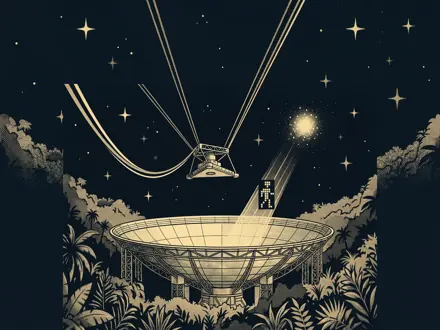
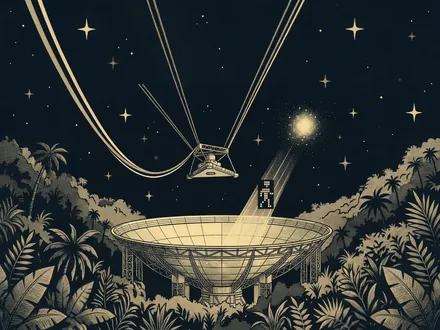
Arecibo story card: redo the widened edges of its art

diff --git a/js/main.js b/js/main.js
@@ -1,50 +1,50 @@
-import { loadComets, comets, cometAt, NAKED_EYE } from './comets.js?v=0.1.770';
-import * as Secrets from './secrets.js?v=0.1.770';
-import { STORY_BY_SECRET } from './stories.js?v=0.1.770';
-import { cloudsHtml, rainHtml } from './weather-art.js?v=0.1.770';
-import * as Ufo from './ufo.js?v=0.1.770';
-import * as Fossil from './fossil.js?v=0.1.770';
-import { patchHtml, patchSvg } from './patches.js?v=0.1.770';
-import { setSwitch, SLIDE_MS } from './switcher.js?v=0.1.770';
-import { toast, ticket, dropToast, toastPending, onTicketShown } from './toast.js?v=0.1.770';
-import { VERSION } from './version.js?v=0.1.770';
-import { loadCatalog, frame, look, track, motion, compassPoint, enuFromAzEl, DARK_SUN_ELEVATION, SkyModel, BelowModel, overEarth, RisingSoon, setBinocularMode, setSkyLimit } from './orbit.js?v=0.1.770';
-import { placeName } from './geo.js?v=0.1.770';
-import { skyLimit, SKIES, DEFAULT_SKY, SB_MIN, SB_MAX, SLIDER_MAX, sbOfSky, skyNameFor } from './sky-limit.js?v=0.1.770';
-import { conArt } from './con-art.js?v=0.1.770';
-import { fetchWeather, tonightSky, skyClearAt, goodSkyAt } from './weather.js?v=0.1.770';
-import { CON_FIGURES } from './con-figures.js?v=0.1.770';
-import { loadConstellations, CON_STARS, CON_BY_ID, conProgress } from './constellations.js?v=0.1.770';
-import { shinyFor, SHINY } from './shiny.js?v=0.1.770';
-import { progress as progressOf, missionsFor, readDeals, xpCarry } from './progress.js?v=0.1.770';
-import { eventOf, activeEvent, nextEvent } from './events.js?v=0.1.770';
-import { conList } from './constellations.js?v=0.1.770';
-import { startSensors, trySensorsQuietly, hasLiveSensors, trueBasis, basisFromAzEl, rotateAz, pointing, nudgeHeading, getNudge, lockHeading, setCompassPlace, getDeclination } from './sensors.js?v=0.1.770';
-import { SkyView, shortName } from './sky.js?v=0.1.770';
-import { loadSky, eqToEnu, solarSystem, milkyWayModel, galAxes, roadster, starVector } from './celestial.js?v=0.1.770';
-import { isPlus, setPlusForTesting, onPlus, PLUS_PERKS, PLUS_PRICES, initStore, storePlans, buyPlus, restorePlus } from './plus.js?v=0.1.770';
-import { isNative, getPosition, saveFile, notifyAt, cancelNotify, haptic, onNative, nativeChrome, plugin } from './native.js?v=0.1.770';
-import { initBackup, onBackupChange, backupSoon, clearBackup, backupStatus } from './cloud-backup.js?v=0.1.770';
-import { addSighting, allSightings, deleteSighting } from './store.js?v=0.1.770';
-import { cardArt } from './art.js?v=0.1.770';
-import { renderCard, miniCard, cardLevel, artImage, lockedArt, attachTilt, attachGyro, throwOff, attachFlip } from './card.js?v=0.1.770';
-import { applyBack, CARD_BACKS, backUnlocked, chosenBack, chooseBack, backEarned } from './card-backs.js?v=0.1.770';
-import { sfx, loadSfx, sfxVolume } from './sfx.js?v=0.1.770';
-import { audioCtx } from './audio-ctx.js?v=0.1.770';
-import { musicOn, startMusic, setMusic, duckMusic, musicVolume, setMusicVolume } from './music.js?v=0.1.770';
-import { onRevealNews, playReveal, playView, primeReveal, stopReveal, onRevealDismiss } from './reveal.js?v=0.1.770';
-import { buildCards, cardKeyFor, stampKeyFor, normalizeSighting, stampsIn, fleetLevel } from './card-model.js?v=0.1.770';
-import { collectedDuringPass, collectedTonight, canCapture, nightsIn, nightKey } from './observation.js?v=0.1.770';
-import { naturalTargets, SOLAR_SYSTEM, DEEP_SKY } from './natural.js?v=0.1.770';
-import { placeFromTimeZone } from './tz-places.js?v=0.1.770';
-import { TIER_INFO } from './rarity.js?v=0.1.770';
-import { SETS, albumList } from './sets.js?v=0.1.770';
-import { TYPE_LABEL, ownerName, orbitStats } from './facts.js?v=0.1.770';
-import { pushConfigured, pushOn, enablePush, disablePush, schedulePush, prefetchKey } from './pass-alerts.js?v=0.1.770';
-import { shareCardEl } from './share-card.js?v=0.1.770';
-import { loadLore, titleFor, factFor, richText } from './lore.js?v=0.1.770';
-import { PlaneTracker, planesAvailable, aircraftName, isHelicopter, planePath } from './planes.js?v=0.1.770';
-import { addStarfield } from './starfield.js?v=0.1.770';
+import { loadComets, comets, cometAt, NAKED_EYE } from './comets.js?v=0.1.771';
+import * as Secrets from './secrets.js?v=0.1.771';
+import { STORY_BY_SECRET } from './stories.js?v=0.1.771';
+import { cloudsHtml, rainHtml } from './weather-art.js?v=0.1.771';
+import * as Ufo from './ufo.js?v=0.1.771';
+import * as Fossil from './fossil.js?v=0.1.771';
+import { patchHtml, patchSvg } from './patches.js?v=0.1.771';
+import { setSwitch, SLIDE_MS } from './switcher.js?v=0.1.771';
+import { toast, ticket, dropToast, toastPending, onTicketShown } from './toast.js?v=0.1.771';
+import { VERSION } from './version.js?v=0.1.771';
+import { loadCatalog, frame, look, track, motion, compassPoint, enuFromAzEl, DARK_SUN_ELEVATION, SkyModel, BelowModel, overEarth, RisingSoon, setBinocularMode, setSkyLimit } from './orbit.js?v=0.1.771';
+import { placeName } from './geo.js?v=0.1.771';
+import { skyLimit, SKIES, DEFAULT_SKY, SB_MIN, SB_MAX, SLIDER_MAX, sbOfSky, skyNameFor } from './sky-limit.js?v=0.1.771';
+import { conArt } from './con-art.js?v=0.1.771';
+import { fetchWeather, tonightSky, skyClearAt, goodSkyAt } from './weather.js?v=0.1.771';
+import { CON_FIGURES } from './con-figures.js?v=0.1.771';
+import { loadConstellations, CON_STARS, CON_BY_ID, conProgress } from './constellations.js?v=0.1.771';
+import { shinyFor, SHINY } from './shiny.js?v=0.1.771';
+import { progress as progressOf, missionsFor, readDeals, xpCarry } from './progress.js?v=0.1.771';
+import { eventOf, activeEvent, nextEvent } from './events.js?v=0.1.771';
+import { conList } from './constellations.js?v=0.1.771';
+import { startSensors, trySensorsQuietly, hasLiveSensors, trueBasis, basisFromAzEl, rotateAz, pointing, nudgeHeading, getNudge, lockHeading, setCompassPlace, getDeclination } from './sensors.js?v=0.1.771';
+import { SkyView, shortName } from './sky.js?v=0.1.771';
+import { loadSky, eqToEnu, solarSystem, milkyWayModel, galAxes, roadster, starVector } from './celestial.js?v=0.1.771';
+import { isPlus, setPlusForTesting, onPlus, PLUS_PERKS, PLUS_PRICES, initStore, storePlans, buyPlus, restorePlus } from './plus.js?v=0.1.771';
+import { isNative, getPosition, saveFile, notifyAt, cancelNotify, haptic, onNative, nativeChrome, plugin } from './native.js?v=0.1.771';
+import { initBackup, onBackupChange, backupSoon, clearBackup, backupStatus } from './cloud-backup.js?v=0.1.771';
+import { addSighting, allSightings, deleteSighting } from './store.js?v=0.1.771';
+import { cardArt } from './art.js?v=0.1.771';
+import { renderCard, miniCard, cardLevel, artImage, lockedArt, attachTilt, attachGyro, throwOff, attachFlip } from './card.js?v=0.1.771';
+import { applyBack, CARD_BACKS, backUnlocked, chosenBack, chooseBack, backEarned } from './card-backs.js?v=0.1.771';
+import { sfx, loadSfx, sfxVolume } from './sfx.js?v=0.1.771';
+import { audioCtx } from './audio-ctx.js?v=0.1.771';
+import { musicOn, startMusic, setMusic, duckMusic, musicVolume, setMusicVolume } from './music.js?v=0.1.771';
+import { onRevealNews, playReveal, playView, primeReveal, stopReveal, onRevealDismiss } from './reveal.js?v=0.1.771';
+import { buildCards, cardKeyFor, stampKeyFor, normalizeSighting, stampsIn, fleetLevel } from './card-model.js?v=0.1.771';
+import { collectedDuringPass, collectedTonight, canCapture, nightsIn, nightKey } from './observation.js?v=0.1.771';
+import { naturalTargets, SOLAR_SYSTEM, DEEP_SKY } from './natural.js?v=0.1.771';
+import { placeFromTimeZone } from './tz-places.js?v=0.1.771';
+import { TIER_INFO } from './rarity.js?v=0.1.771';
+import { SETS, albumList } from './sets.js?v=0.1.771';
+import { TYPE_LABEL, ownerName, orbitStats } from './facts.js?v=0.1.771';
+import { pushConfigured, pushOn, enablePush, disablePush, schedulePush, prefetchKey } from './pass-alerts.js?v=0.1.771';
+import { shareCardEl } from './share-card.js?v=0.1.771';
+import { loadLore, titleFor, factFor, richText } from './lore.js?v=0.1.771';
+import { PlaneTracker, planesAvailable, aircraftName, isHelicopter, planePath } from './planes.js?v=0.1.771';
+import { addStarfield } from './starfield.js?v=0.1.771';
 
 const $ = (id) => document.getElementById(id);
 const RAD = Math.PI / 180;

diff --git a/js/cards-page.js b/js/cards-page.js
@@ -1,29 +1,29 @@
-import { isNative, saveFile, notifyAt, shareFile } from './native.js?v=0.1.770';
-import { computeStats, statsHtml } from './stats.js?v=0.1.770';
-import { nightKey } from './observation.js?v=0.1.770';
-import { loadComets, comets, cometAt, NAKED_EYE } from './comets.js?v=0.1.770';
-import { sfx } from './sfx.js?v=0.1.770';
-import { expandFacts } from './catalog-facts.js?v=0.1.770';
-import { patchHtml, GROUPS, GROUP_ORDER, groupOf, finishOf, fmtEarned } from './patches.js?v=0.1.770';
-import { setSwitch, SLIDE_MS } from './switcher.js?v=0.1.770';
-import { ticket } from './toast.js?v=0.1.770';
-import { orbitGlobe, whereLine } from './orbit-view.js?v=0.1.770';
-import { renderCard, miniCard, lockedArt, renderCardTile, attachTilt, attachGyro, attachFlip, artImage, throwOff } from './card.js?v=0.1.770';
-import { cardArt } from './art.js?v=0.1.770';
-import { buildCards, cardKeyFor, normalizeSighting } from './card-model.js?v=0.1.770';
-import { applyBack } from './card-backs.js?v=0.1.770';
-import { SETS, assignSets, albumGoals, albumList } from './sets.js?v=0.1.770';
-import { TIERS, TIER_INFO } from './rarity.js?v=0.1.770';
-import { loadLore, titleFor, factFor } from './lore.js?v=0.1.770';
-import { STORIES } from './stories.js?v=0.1.770';
-import { loadConstellations, conList } from './constellations.js?v=0.1.770';
-import { RANKS, progress, readDeals, xpCarry } from './progress.js?v=0.1.770';
-import { eventBadges, nextEvent } from './events.js?v=0.1.770';
-import { shareCardEl } from './share-card.js?v=0.1.770';
-import { forgetSighting } from './cloud-backup.js?v=0.1.770';
-import { allSightings, deleteSighting } from './store.js?v=0.1.770';
-import { addStarfield, attachTileTilt } from './starfield.js?v=0.1.770';
-import { SECRET_PATCHES, hasPatch } from './secrets.js?v=0.1.770';
+import { isNative, saveFile, notifyAt, shareFile } from './native.js?v=0.1.771';
+import { computeStats, statsHtml } from './stats.js?v=0.1.771';
+import { nightKey } from './observation.js?v=0.1.771';
+import { loadComets, comets, cometAt, NAKED_EYE } from './comets.js?v=0.1.771';
+import { sfx } from './sfx.js?v=0.1.771';
+import { expandFacts } from './catalog-facts.js?v=0.1.771';
+import { patchHtml, GROUPS, GROUP_ORDER, groupOf, finishOf, fmtEarned } from './patches.js?v=0.1.771';
+import { setSwitch, SLIDE_MS } from './switcher.js?v=0.1.771';
+import { ticket } from './toast.js?v=0.1.771';
+import { orbitGlobe, whereLine } from './orbit-view.js?v=0.1.771';
+import { renderCard, miniCard, lockedArt, renderCardTile, attachTilt, attachGyro, attachFlip, artImage, throwOff } from './card.js?v=0.1.771';
+import { cardArt } from './art.js?v=0.1.771';
+import { buildCards, cardKeyFor, normalizeSighting } from './card-model.js?v=0.1.771';
+import { applyBack } from './card-backs.js?v=0.1.771';
+import { SETS, assignSets, albumGoals, albumList } from './sets.js?v=0.1.771';
+import { TIERS, TIER_INFO } from './rarity.js?v=0.1.771';
+import { loadLore, titleFor, factFor } from './lore.js?v=0.1.771';
+import { STORIES } from './stories.js?v=0.1.771';
+import { loadConstellations, conList } from './constellations.js?v=0.1.771';
+import { RANKS, progress, readDeals, xpCarry } from './progress.js?v=0.1.771';
+import { eventBadges, nextEvent } from './events.js?v=0.1.771';
+import { shareCardEl } from './share-card.js?v=0.1.771';
+import { forgetSighting } from './cloud-backup.js?v=0.1.771';
+import { allSightings, deleteSighting } from './store.js?v=0.1.771';
+import { addStarfield, attachTileTilt } from './starfield.js?v=0.1.771';
+import { SECRET_PATCHES, hasPatch } from './secrets.js?v=0.1.771';
 
 const $ = (id) => document.getElementById(id);
 const state = { raw: [], cards: [], byKey: new Map(), sightingsByKey: new Map(), seenMembers: new Map(), view: 'owned', query: '', set: 'all', rarity: 'all', list: [], index: 0, preview: false, ready: false };

diff --git a/js/card.js b/js/card.js
@@ -1,19 +1,19 @@
 // Retro space-age cards. Text remains live; the foil follows pointer or optional phone tilt.
-import { fallWords } from './last-chance.js?v=0.1.770';
-import { sfx } from './sfx.js?v=0.1.770';
-import { cardArt } from './art.js?v=0.1.770';
-import { TIER_INFO } from './rarity.js?v=0.1.770';
-import { SET_BY_ID } from './sets.js?v=0.1.770';
-import { TYPE_LABEL, orbitStats, sizeLabel, formatDate, titleCase } from './facts.js?v=0.1.770';
-import { FLEET_ABOUT, debrisOf, roleOf, ownerWord, titleFor, factFor, yearsUp, lapsPerDay, thirdStat, richText, seriesKeyOf } from './lore.js?v=0.1.770';
-import { artFileFor } from './art-keys.js?v=0.1.770';
-import { ART_FILES, ART_STARS } from './art-files.js?v=0.1.770';
-import { stampsIn, fleetLevel, fleetThresholds, sightingKeys } from './card-model.js?v=0.1.770';
-import { nightsIn } from './observation.js?v=0.1.770';
-import { CON_BY_ID, conProgress } from './constellations.js?v=0.1.770';
-import { SHINY } from './shiny.js?v=0.1.770';
-import { conArt, cometArt } from './con-art.js?v=0.1.770';
-import { CON_FIGURES } from './con-figures.js?v=0.1.770';
+import { fallWords } from './last-chance.js?v=0.1.771';
+import { sfx } from './sfx.js?v=0.1.771';
+import { cardArt } from './art.js?v=0.1.771';
+import { TIER_INFO } from './rarity.js?v=0.1.771';
+import { SET_BY_ID } from './sets.js?v=0.1.771';
+import { TYPE_LABEL, orbitStats, sizeLabel, formatDate, titleCase } from './facts.js?v=0.1.771';
+import { FLEET_ABOUT, debrisOf, roleOf, ownerWord, titleFor, factFor, yearsUp, lapsPerDay, thirdStat, richText, seriesKeyOf } from './lore.js?v=0.1.771';
+import { artFileFor } from './art-keys.js?v=0.1.771';
+import { ART_FILES, ART_STARS } from './art-files.js?v=0.1.771';
+import { stampsIn, fleetLevel, fleetThresholds, sightingKeys } from './card-model.js?v=0.1.771';
+import { nightsIn } from './observation.js?v=0.1.771';
+import { CON_BY_ID, conProgress } from './constellations.js?v=0.1.771';
+import { SHINY } from './shiny.js?v=0.1.771';
+import { conArt, cometArt } from './con-art.js?v=0.1.771';
+import { CON_FIGURES } from './con-figures.js?v=0.1.771';
 // The animal/symbol figure belongs to the completed (gold) constellation card only (2026-10-05): a single
 // star's card draws just the star pattern with its star marked, so the figure is a reward for finishing the set.
 // A star card's constellation figure comes into focus as you collect the constellation's stars (design/con-focus.html B).

diff --git a/cards.html b/cards.html
@@ -18,10 +18,10 @@
   <link href="https://fonts.googleapis.com/css2?family=Inter:wght@400;450;500;600;650;700;750;800&family=IBM+Plex+Mono:wght@400;500;600&display=swap" rel="stylesheet">
   <link rel="preload" href="fonts/RussoOne-Regular.ttf" as="font" type="font/ttf" crossorigin>
   <link rel="preload" href="fonts/BarlowCondensed-Medium.ttf" as="font" type="font/ttf" crossorigin>
-  <link rel="stylesheet" href="css/cards.css?v=0.1.770">
-  <link rel="stylesheet" href="css/collection.css?v=0.1.770">
-  <link rel="stylesheet" href="css/icons.css?v=0.1.770">
-  <link rel="stylesheet" href="css/ui.css?v=0.1.770">
+  <link rel="stylesheet" href="css/cards.css?v=0.1.771">
+  <link rel="stylesheet" href="css/collection.css?v=0.1.771">
+  <link rel="stylesheet" href="css/icons.css?v=0.1.771">
+  <link rel="stylesheet" href="css/ui.css?v=0.1.771">
 </head>
 <body>
   <header class="collection-header sky-header"><a class="wordmark" href="./?resume=1">SPACE COLLECTOR<span>FIELD NOTES FROM ORBIT</span></a><span class="header-buttons"><button class="icon-button" id="night-toggle" type="button" aria-label="Turn on red night mode" aria-pressed="false">☾</button><a class="icon-button" href="./?resume=1&amp;more=1" aria-label="Settings"><span class="ico" data-ico="sliders"></span></a></span></header>
@@ -45,7 +45,7 @@
     <div class="viewer-header"><span id="v-position" class="ui-eyebrow"></span><button class="close x-close" id="v-close" type="button" aria-label="Close">✕</button></div>
     <div class="viewer-scroll"><div id="slot"></div><div id="v-up" class="v-up" hidden></div><p id="v-where" class="v-where" hidden></p><p id="v-status" class="viewer-status" aria-live="polite"></p><button id="v-share" class="ui-link" type="button" hidden>Share this card</button><div id="v-next" class="v-next" hidden></div><button id="v-preview" class="ui-btn" type="button" hidden>Preview artwork</button><div id="v-history" class="viewer-history"></div></div>
   </dialog>
-  <script type="module" src="js/cards-page.js?v=0.1.770"></script>
+  <script type="module" src="js/cards-page.js?v=0.1.771"></script>
 <div id="rotate" role="status"><b>Turn your phone upright</b><span>Space Collector is made for portrait.</span></div>
 </body>
 </html>

diff --git a/js/review.js b/js/review.js
@@ -3,15 +3,15 @@
 // picture" shows one card for each art file (most satellites share a picture by kind) with how many cards use it.
 // Stars (☆) are saved in this browser (localStorage 'reviewStars'); "Copy starred" puts a list on the clipboard to
 // hand back. Not linked from the app.
-import { expandFacts } from './catalog-facts.js?v=0.1.770';
-import { renderCard, miniCard, artImage } from './card.js?v=0.1.770';
-import { buildCards } from './card-model.js?v=0.1.770';
-import { TIERS, TIER_INFO } from './rarity.js?v=0.1.770';
-import { loadLore, titleFor, debrisOf } from './lore.js?v=0.1.770';
-import './stories.js?v=0.1.770';
-import { CON_FIGURES } from './con-figures.js?v=0.1.770';
-import { loadConstellations, CON_BY_ID } from './constellations.js?v=0.1.770';
-import { loadComets } from './comets.js?v=0.1.770';
+import { expandFacts } from './catalog-facts.js?v=0.1.771';
+import { renderCard, miniCard, artImage } from './card.js?v=0.1.771';
+import { buildCards } from './card-model.js?v=0.1.771';
+import { TIERS, TIER_INFO } from './rarity.js?v=0.1.771';
+import { loadLore, titleFor, debrisOf } from './lore.js?v=0.1.771';
+import './stories.js?v=0.1.771';
+import { CON_FIGURES } from './con-figures.js?v=0.1.771';
+import { loadConstellations, CON_BY_ID } from './constellations.js?v=0.1.771';
+import { loadComets } from './comets.js?v=0.1.771';
 
 const $ = (id) => document.getElementById(id);
 const esc = (s) => String(s ?? '').replace(/[&<>"]/g, (c) => ({ '&': '&amp;', '<': '&lt;', '>': '&gt;', '"': '&quot;' })[c]);

diff --git a/js/sky.js b/js/sky.js
@@ -1,17 +1,17 @@
 // Canvas renderer for the sky view. Gnomonic (pinhole camera) projection around where the phone points.
-import { extinction } from './sky-limit.js?v=0.1.770';
+import { extinction } from './sky-limit.js?v=0.1.771';
 // Two themes: 'glass' (ink, cream and orange celestial chart) and 'night' (all red, keeps dark adaptation).
-import { createMilkyGL } from './milkyway-gl.js?v=0.1.770';
+import { createMilkyGL } from './milkyway-gl.js?v=0.1.771';
 
-import { enuFromAzEl, compassPoint } from './orbit.js?v=0.1.770';
-import { createCloudGL } from './clouds-gl.js?v=0.1.770';
+import { enuFromAzEl, compassPoint } from './orbit.js?v=0.1.771';
+import { createCloudGL } from './clouds-gl.js?v=0.1.771';
 // Cloud colours by light: sunlit tops, shadowed bellies, and the horizon haze they melt into (0–1 RGB).
 const CLOUD_LIGHT = {
   day: { lit: [1, 1, 1], shade: [0.62, 0.68, 0.77], haze: [0.82, 0.87, 0.93] },
   dusk: { lit: [1, 0.8, 0.68], shade: [0.36, 0.33, 0.42], haze: [0.62, 0.5, 0.52] },
   night: { lit: [0.22, 0.25, 0.31], shade: [0.1, 0.12, 0.16], haze: [0.14, 0.15, 0.2] },
 };
-import { TIER_INFO } from './rarity.js?v=0.1.770';
+import { TIER_INFO } from './rarity.js?v=0.1.771';
 
 const RAD = Math.PI / 180;
 const BELOW_ICON = 10.5, BELOW_ICON_HIT = 20; // every satellite under the horizon, passes and halo alike (80% of 13 since 2026-10-13); lined up in the circle it grows

diff --git a/index.html b/index.html
@@ -22,11 +22,11 @@
   <link rel="preload" href="fonts/RussoOne-Regular.ttf" as="font" type="font/ttf" crossorigin>
   <link rel="preload" href="fonts/BarlowCondensed-Medium.ttf" as="font" type="font/ttf" crossorigin>
   <link href="https://fonts.googleapis.com/css2?family=Inter:wght@400;450;500;600;650;700;750;800&family=IBM+Plex+Mono:wght@400;500;600&display=swap" rel="stylesheet">
-  <link rel="stylesheet" href="css/cards.css?v=0.1.770">
-  <link rel="stylesheet" href="css/app.css?v=0.1.770">
-  <link rel="stylesheet" href="css/icons.css?v=0.1.770">
-  <link rel="stylesheet" href="css/reveal.css?v=0.1.770">
-  <link rel="stylesheet" href="css/ui.css?v=0.1.770">
+  <link rel="stylesheet" href="css/cards.css?v=0.1.771">
+  <link rel="stylesheet" href="css/app.css?v=0.1.771">
+  <link rel="stylesheet" href="css/icons.css?v=0.1.771">
+  <link rel="stylesheet" href="css/reveal.css?v=0.1.771">
+  <link rel="stylesheet" href="css/ui.css?v=0.1.771">
 </head>
 <body>
   <video id="cam" playsinline muted autoplay hidden></video>
@@ -305,7 +305,7 @@
     </div></div>
   </section>
 
-  <script type="module" src="js/main.js?v=0.1.770"></script>
+  <script type="module" src="js/main.js?v=0.1.771"></script>
 <div id="rotate" role="status"><b>Turn your phone upright</b><span>Space Collector is made for portrait.</span></div>
 </body>
 </html>

diff --git a/js/share-card.js b/js/share-card.js
@@ -1,11 +1,11 @@
-import { isNative, shareFile } from './native.js?v=0.1.770';
+import { isNative, shareFile } from './native.js?v=0.1.771';
 // Share a card as an image (1080 × 1350, Instagram portrait): drawn on a canvas in the card style (art,
 // name, rarity, stats, fact, when you saw it, your observer rank), then handed to the share sheet
 // (navigator.share with a file) or downloaded. Drawing it ourselves avoids DOM-screenshot libraries,
 // which mangle Safari's fonts and blend modes.
-import { conArt } from './con-art.js?v=0.1.770';
-import { CON_BY_ID } from './constellations.js?v=0.1.770';
-import { TIER_INFO } from './rarity.js?v=0.1.770';
+import { conArt } from './con-art.js?v=0.1.771';
+import { CON_BY_ID } from './constellations.js?v=0.1.771';
+import { TIER_INFO } from './rarity.js?v=0.1.771';
 const W = 1080, H = 1350, INK = '#fff2b3', MUTED = '#bdbea9', ORANGE = '#fa8127', NAVY = '#080f1b';
 const loadImg = (src) => new Promise((ok, bad) => { const i = new Image(); i.onload = () => ok(i); i.onerror = bad; i.src = src; });
 const svgImg = async (svg) => { const u = URL.createObjectURL(new Blob([svg], { type: 'image/svg+xml' })); try { return await loadImg(u); } finally { URL.revokeObjectURL(u); } };

diff --git a/js/reveal.js b/js/reveal.js
@@ -5,12 +5,12 @@
 //  Everything scales with rarity (Legendary dims the sky, shockwave, held breath, slow flip, fanfare).
 // Waits use timers, not animation.finished, so a paused tab can never freeze the sequence.
 
-import { sfx, loadSfx } from './sfx.js?v=0.1.770';
-import { audioCtx } from './audio-ctx.js?v=0.1.770';
-import { TIER_INFO } from './rarity.js?v=0.1.770';
-import { levelFor, attachTilt, attachGyro, attachFlip, throwOff } from './card.js?v=0.1.770';
-import { applyBack } from './card-backs.js?v=0.1.770';
-import { addStarfield } from './starfield.js?v=0.1.770';
+import { sfx, loadSfx } from './sfx.js?v=0.1.771';
+import { audioCtx } from './audio-ctx.js?v=0.1.771';
+import { TIER_INFO } from './rarity.js?v=0.1.771';
+import { levelFor, attachTilt, attachGyro, attachFlip, throwOff } from './card.js?v=0.1.771';
+import { applyBack } from './card-backs.js?v=0.1.771';
+import { addStarfield } from './starfield.js?v=0.1.771';
 
 const FX = {
   common:    { particles: 14,  flip: 520,  spin: 0,   dim: 0,   shock: false, notes: [880],                            hold: 0 },

diff --git a/js/tonight-worker.js b/js/tonight-worker.js
@@ -2,9 +2,9 @@
 // many satellites are visible over the night. Runs off the main thread; ~4,000 objects × 1-minute steps
 // takes a few seconds. Visibility uses the same rules as the live sky: sunlit, dark sky, and brighter than
 // the limit for your sky at that moment (light pollution, twilight, Moon; js/sky-limit.js).
-import { frame, look, setSkyLimit, setBinocularMode, DARK_SUN_ELEVATION } from './orbit.js?v=0.1.770';
-import { skyLimit } from './sky-limit.js?v=0.1.770';
-import { solarSystem, eqToEnu } from './celestial.js?v=0.1.770';
+import { frame, look, setSkyLimit, setBinocularMode, DARK_SUN_ELEVATION } from './orbit.js?v=0.1.771';
+import { skyLimit } from './sky-limit.js?v=0.1.771';
+import { solarSystem, eqToEnu } from './celestial.js?v=0.1.771';
 
 const STEP0 = 60000;         // 1 minute (other nights in the week ahead use 2)
 const GAP = 3;               // a pass ends after this many minutes out of sight

diff --git a/review.html b/review.html
@@ -7,8 +7,8 @@
   <title>Card Review</title>
   <link rel="icon" href="icons/icon-192.png">
   <link href="https://fonts.googleapis.com/css2?family=Inter:wght@400;450;500;600;650;700;750;800&family=IBM+Plex+Mono:wght@400;500;600&display=swap" rel="stylesheet">
-  <link rel="stylesheet" href="css/cards.css?v=0.1.770">
-  <link rel="stylesheet" href="css/ui.css?v=0.1.770">
+  <link rel="stylesheet" href="css/cards.css?v=0.1.771">
+  <link rel="stylesheet" href="css/ui.css?v=0.1.771">
   <style>
     /* Every card on one page, for scanning art and layout (2026-10-14). Not linked from the app. */
     :root { color-scheme: dark; }
@@ -74,6 +74,6 @@
   <main id="grid" aria-live="polite"></main>
   <div id="view" hidden></div>
   <div id="toast" hidden></div>
-  <script type="module" src="js/review.js?v=0.1.770"></script>
+  <script type="module" src="js/review.js?v=0.1.771"></script>
 </body>
 </html>

diff --git a/sw.js b/sw.js
@@ -10,7 +10,7 @@
 // One cache per version (2026-10-10: a phone stuck on the loader). A shared cache could hand a slow-network fallback
 // page old files mixed with new ones that don't fit together. Now each deploy's worker (scripts/bump.mjs stamps the
 // version below) starts its own cache and deletes the others, so a page only ever meets files from its own version.
-const CACHE = 'sc-0.1.770';
+const CACHE = 'sc-0.1.771';
 self.addEventListener('install', (e) => { self.skipWaiting(); e.waitUntil(caches.open(CACHE).then((c) => c.addAll(['./', 'index.html', 'cards.html', 'data/catalog.json', 'data/sky.json']).catch(() => {}))); });
 self.addEventListener('activate', (e) => { e.waitUntil(caches.keys().then((ks) => Promise.all(ks.filter((k) => k !== CACHE).map((k) => caches.delete(k)))).then(() => self.clients.claim())); });
 self.addEventListener('fetch', (e) => {
